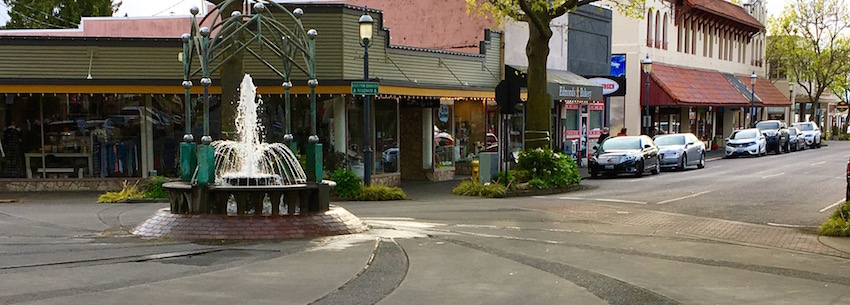
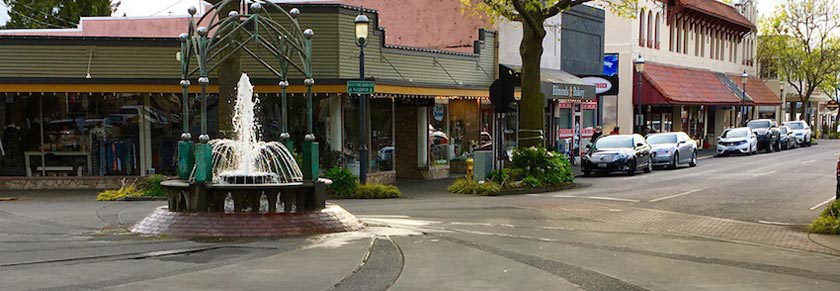
Franklin-7 Final Updates

diff --git a/assignments/lesson-7/gallery.html b/assignments/lesson-7/gallery.html
@@ -36,7 +36,7 @@
     <main class="gallery">
       <figure>
         <img src="images/rainy-day-flower-400x400.jpg" alt="Rain drops on yellow gerbera daisy">
-        <figcaption>Rain drops on yellow flower in Franklin's Botanical Garden.</figcaption>
+        <figcaption>Rain drops on flower in Franklin Garden.</figcaption>
       </figure>
       <figure>
         <img src="images/sunny-beach-400x400.jpg" alt="Sunny day at the beach.">
@@ -44,19 +44,19 @@
       </figure>
       <figure> 
         <img src="images/sun-and-clouds-400x400.jpg" alt="Blue Sky with Clouds and sun.">
-        <figcaption>Soft clouds float gently by over the Tri-City area.</figcaption>
+        <figcaption>Soft clouds float over the Tri-City area.</figcaption>
       </figure>
       <figure>
         <img src="images/light-snow-400x400.jpg" alt="Light snow on hillside outside of Springfield.">
-        <figcaption>Light dusting of snow Christmas day near Springfield</figcaption>
+        <figcaption>Light dusting of snow outside Springfield</figcaption>
       </figure>
       <figure>
         <img src="images/cloudy-sky-400x400.jpg" alt="Sunny fields outside Greenville">
-        <figcaption>Sunny morning near Smith's Homestead in Greenville.</figcaption>
+        <figcaption>Sunny morning near Smith Hill in Greenville.</figcaption>
       </figure>
       <figure>
         <img src="images/wet-cat-400x400.jpg" alt="Wet cat caught in rain shower wanders around Frankin">
-        <figcaption>Wet cat caught in rain wanders around Springfield.</figcaption>
+        <figcaption>Cat caught in rain wanders around Springfield.</figcaption>
       </figure>
     </main>
     <footer>

diff --git a/assignments/lesson-7/styles/main-7.css b/assignments/lesson-7/styles/main-7.css
@@ -90,7 +90,6 @@ nav ul li a {
 
 nav ul li a:hover {
   background-color: #D56B35;
-  color: #FBFBFB;
   font-weight: 500;
 }
 
@@ -99,7 +98,7 @@ main {padding: .75rem;}
 h2 {
   font-family: Baskerville, Garamond, serif;
   margin: 1.75rem 0 .5rem 0;
-  font-size: 1.75rem;
+  font-size: 1.5rem;
   text-align: center;
   color: #D56B35;
 }
@@ -124,12 +123,13 @@ main figure {
 
 main figure img { 
   width: 75%;
-  padding: 1.5rem 0 1.5rem 1rem;
+  padding: 1rem 0 1rem 1rem;
 }
 
 .weather-summary {
   flex: 1.05;
-  padding: 5% 0 1.5rem 0;
+  padding: 5% 0 5% 0;
+  margin-left: 10%;
 }
 
  .weather-summary h3 {
@@ -146,7 +146,7 @@ main figure img {
 
 .highlow p {margin: .5rem 0 1.25rem 0;}
 
-.conditions p {margin: 0 0 1.25rem 0;}
+.conditions p {margin-bottom: 1.25rem;}
 
 article h3 {
   text-align: center;
@@ -167,7 +167,7 @@ article img {
 }
 
 .town-article {
-  margin: 10px 0 0 0;
+  margin-top: 10px 0 0 0;
   text-align: left;
 } 
 
@@ -215,14 +215,12 @@ footer .footer-bar {
   text-align: center;
 }
 
-.gallery figure {
-  padding: 0;
-  margin; 0;
-}
-
 .gallery figure img {
   padding: 2rem 0 .75rem 0;
   text-align: center;
 }
 
-figcaption {font-size: 12px;}
+figcaption {
+  font-size: 12px;
+  padding-bottom: .75rem;
+}

diff --git a/assignments/lesson-7/franklin-7.html b/assignments/lesson-7/franklin-7.html
@@ -37,15 +37,12 @@
       <picture>
         <img src="images/franklin.jpg" alt="Image of downtown Franklin with view of the water fountain"
           sizes="100vw" 
-          srcset="images/franklin-410x142.jpg 410w,
-                images/franklin-620x215.jpg 620w,
-                images/franklin-840x291.jpg 840w">
+          srcset="images/franklin-400x139.jpg 410w,
+                  images/franklin-600x208.jpg 620w,
+                  images/franklin-840x291.jpg 840w">
       </picture>
       <div class="weather-report">
-        <figure>
-          <img src="images/clouds.png" alt="Rain cloud icon">
-        </figure>
-        <section class="weather-summary">
+              <section class="weather-summary">
           <h3>Rainy and Windy</h3>    
           <div class="highlow">
             <p>High: <span id="hightemp">65</span>&deg;&thinsp;&#124;&thinsp;&thinsp;</p> 
@@ -58,6 +55,9 @@
             <p>Wind Chill Factor: <span id="windchillfactor"></span>&deg; </p>
           </div>           
         </section>
+        <figure>
+          <img src="images/clouds.png" alt="Rain cloud icon">
+        </figure>
         <section class="forecast">
           <h3>Ten Day Forecast</h3>
           <table>

diff --git a/assignments/lesson-7/styles/medium-7.css b/assignments/lesson-7/styles/medium-7.css
@@ -6,10 +6,6 @@
     display: block;
   }
   
-  nav {
-    text-align: center;
-  }
-  
   nav ul#primaryNav{
     display: flex;
     justify-content: space-around;
@@ -30,12 +26,12 @@
   }
   
   h2 {
-    font-size: 2.25rem;
+    font-size: 2rem;
   }
   
   .weather-summary {
     margin-left: 10%;
-    padding-bottom: 1%;
+    padding-bottom: 2%;
   }
   
   .weather-summary div {
@@ -45,6 +41,7 @@
   .forecast {
     display: flex; 
     flex-flow: row wrap;
+    margin: 3rem 2rem 3rem 2rem;
     padding: .75rem;
     border: 2px solid #26333E;
     background: #D56B35;
@@ -69,13 +66,13 @@
   th {
     width: 48rem;
     font-size: 12px;
-    padding: .4rem;
+    padding: .45rem;
     background-color: #FBFBFB;
     border: 2px solid #26333E;
     }
   
   td {
-    padding: .4rem;
+    padding: .45rem;
     border: 2px solid #26333E;
   }
   
@@ -88,11 +85,6 @@
     float: left;
     margin-right: 1rem; 
   }
-
-  .forecast { 
-  display: block; 
-  margin: 3rem;
-  } 
   
   /* Grid CSS */
   

diff --git a/assignments/lesson-7/styles/large-7.css b/assignments/lesson-7/styles/large-7.css
@@ -22,11 +22,6 @@
     font-size: 21px; 
   }
   
-  .weather-summary {
-    margin-left: 15%;
-    padding-bottom: 3%;
-  }
-  
   article img {
     margin-bottom: .5rem;
   }
@@ -39,7 +34,7 @@
   }
   
   .gallery figure:hover {
-     box-shadow: 6px 6px 16px gray;
+     box-shadow: 6px 6px 16px #909199;
   }
 
   }
